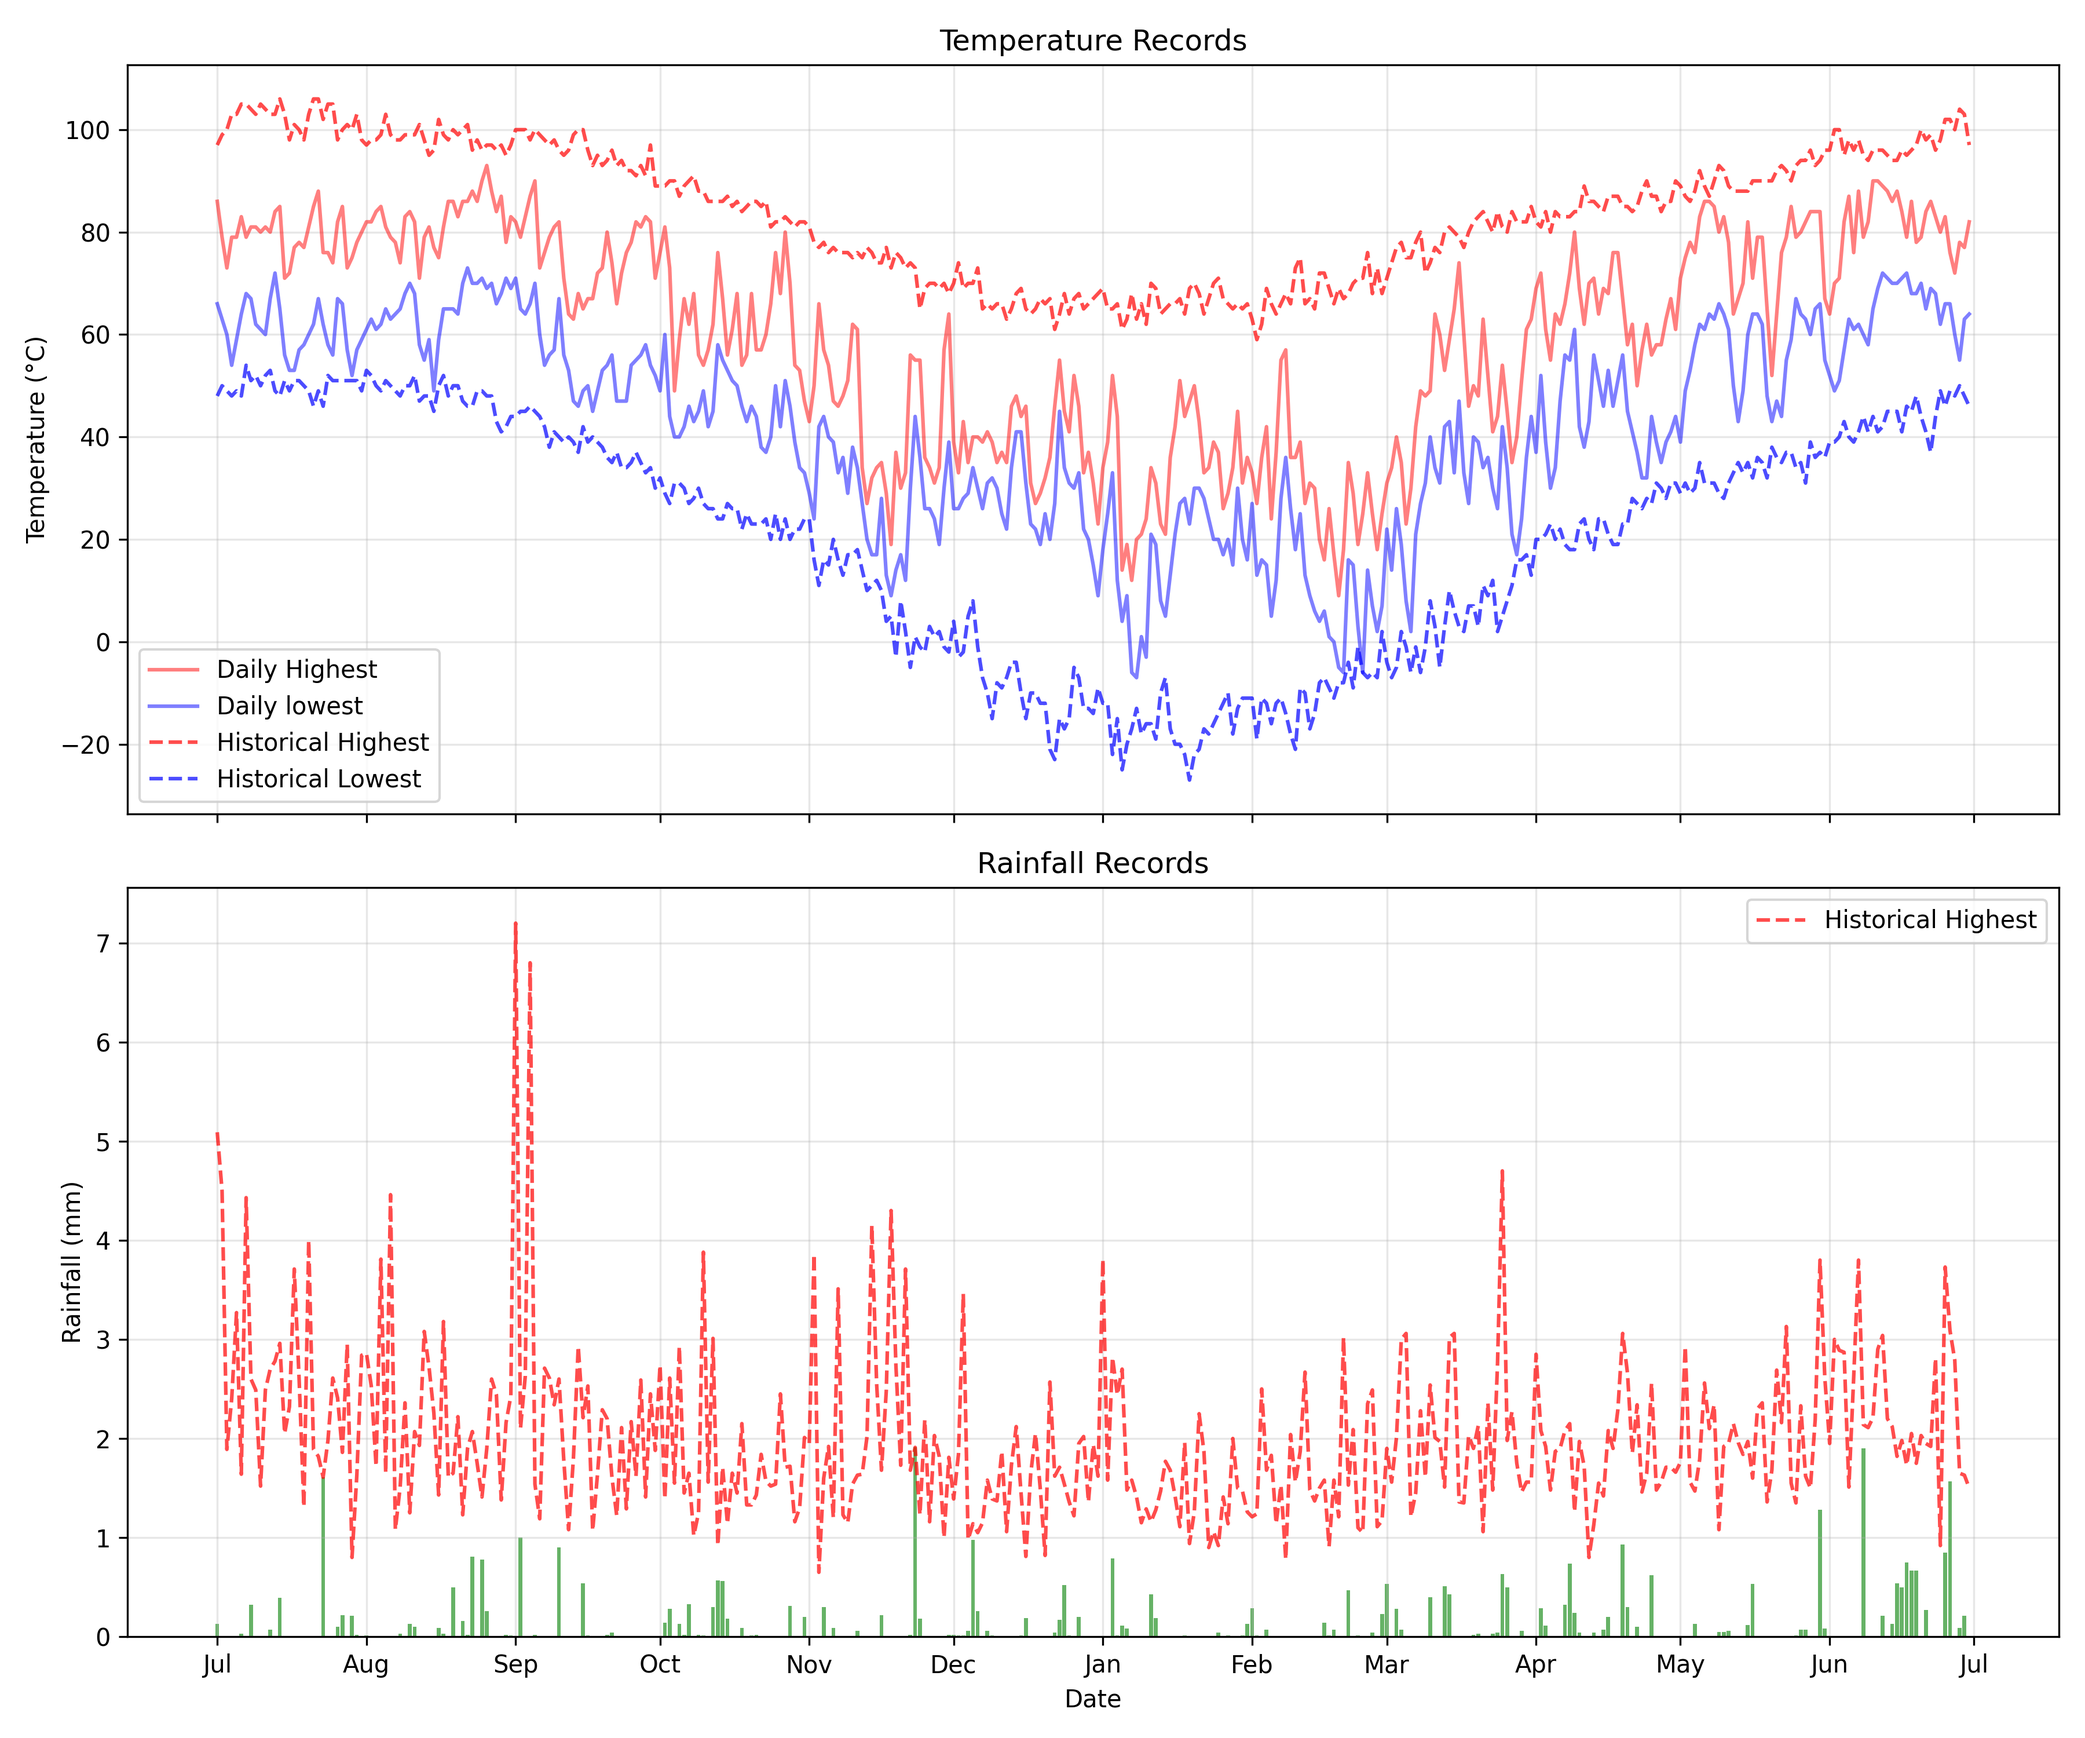
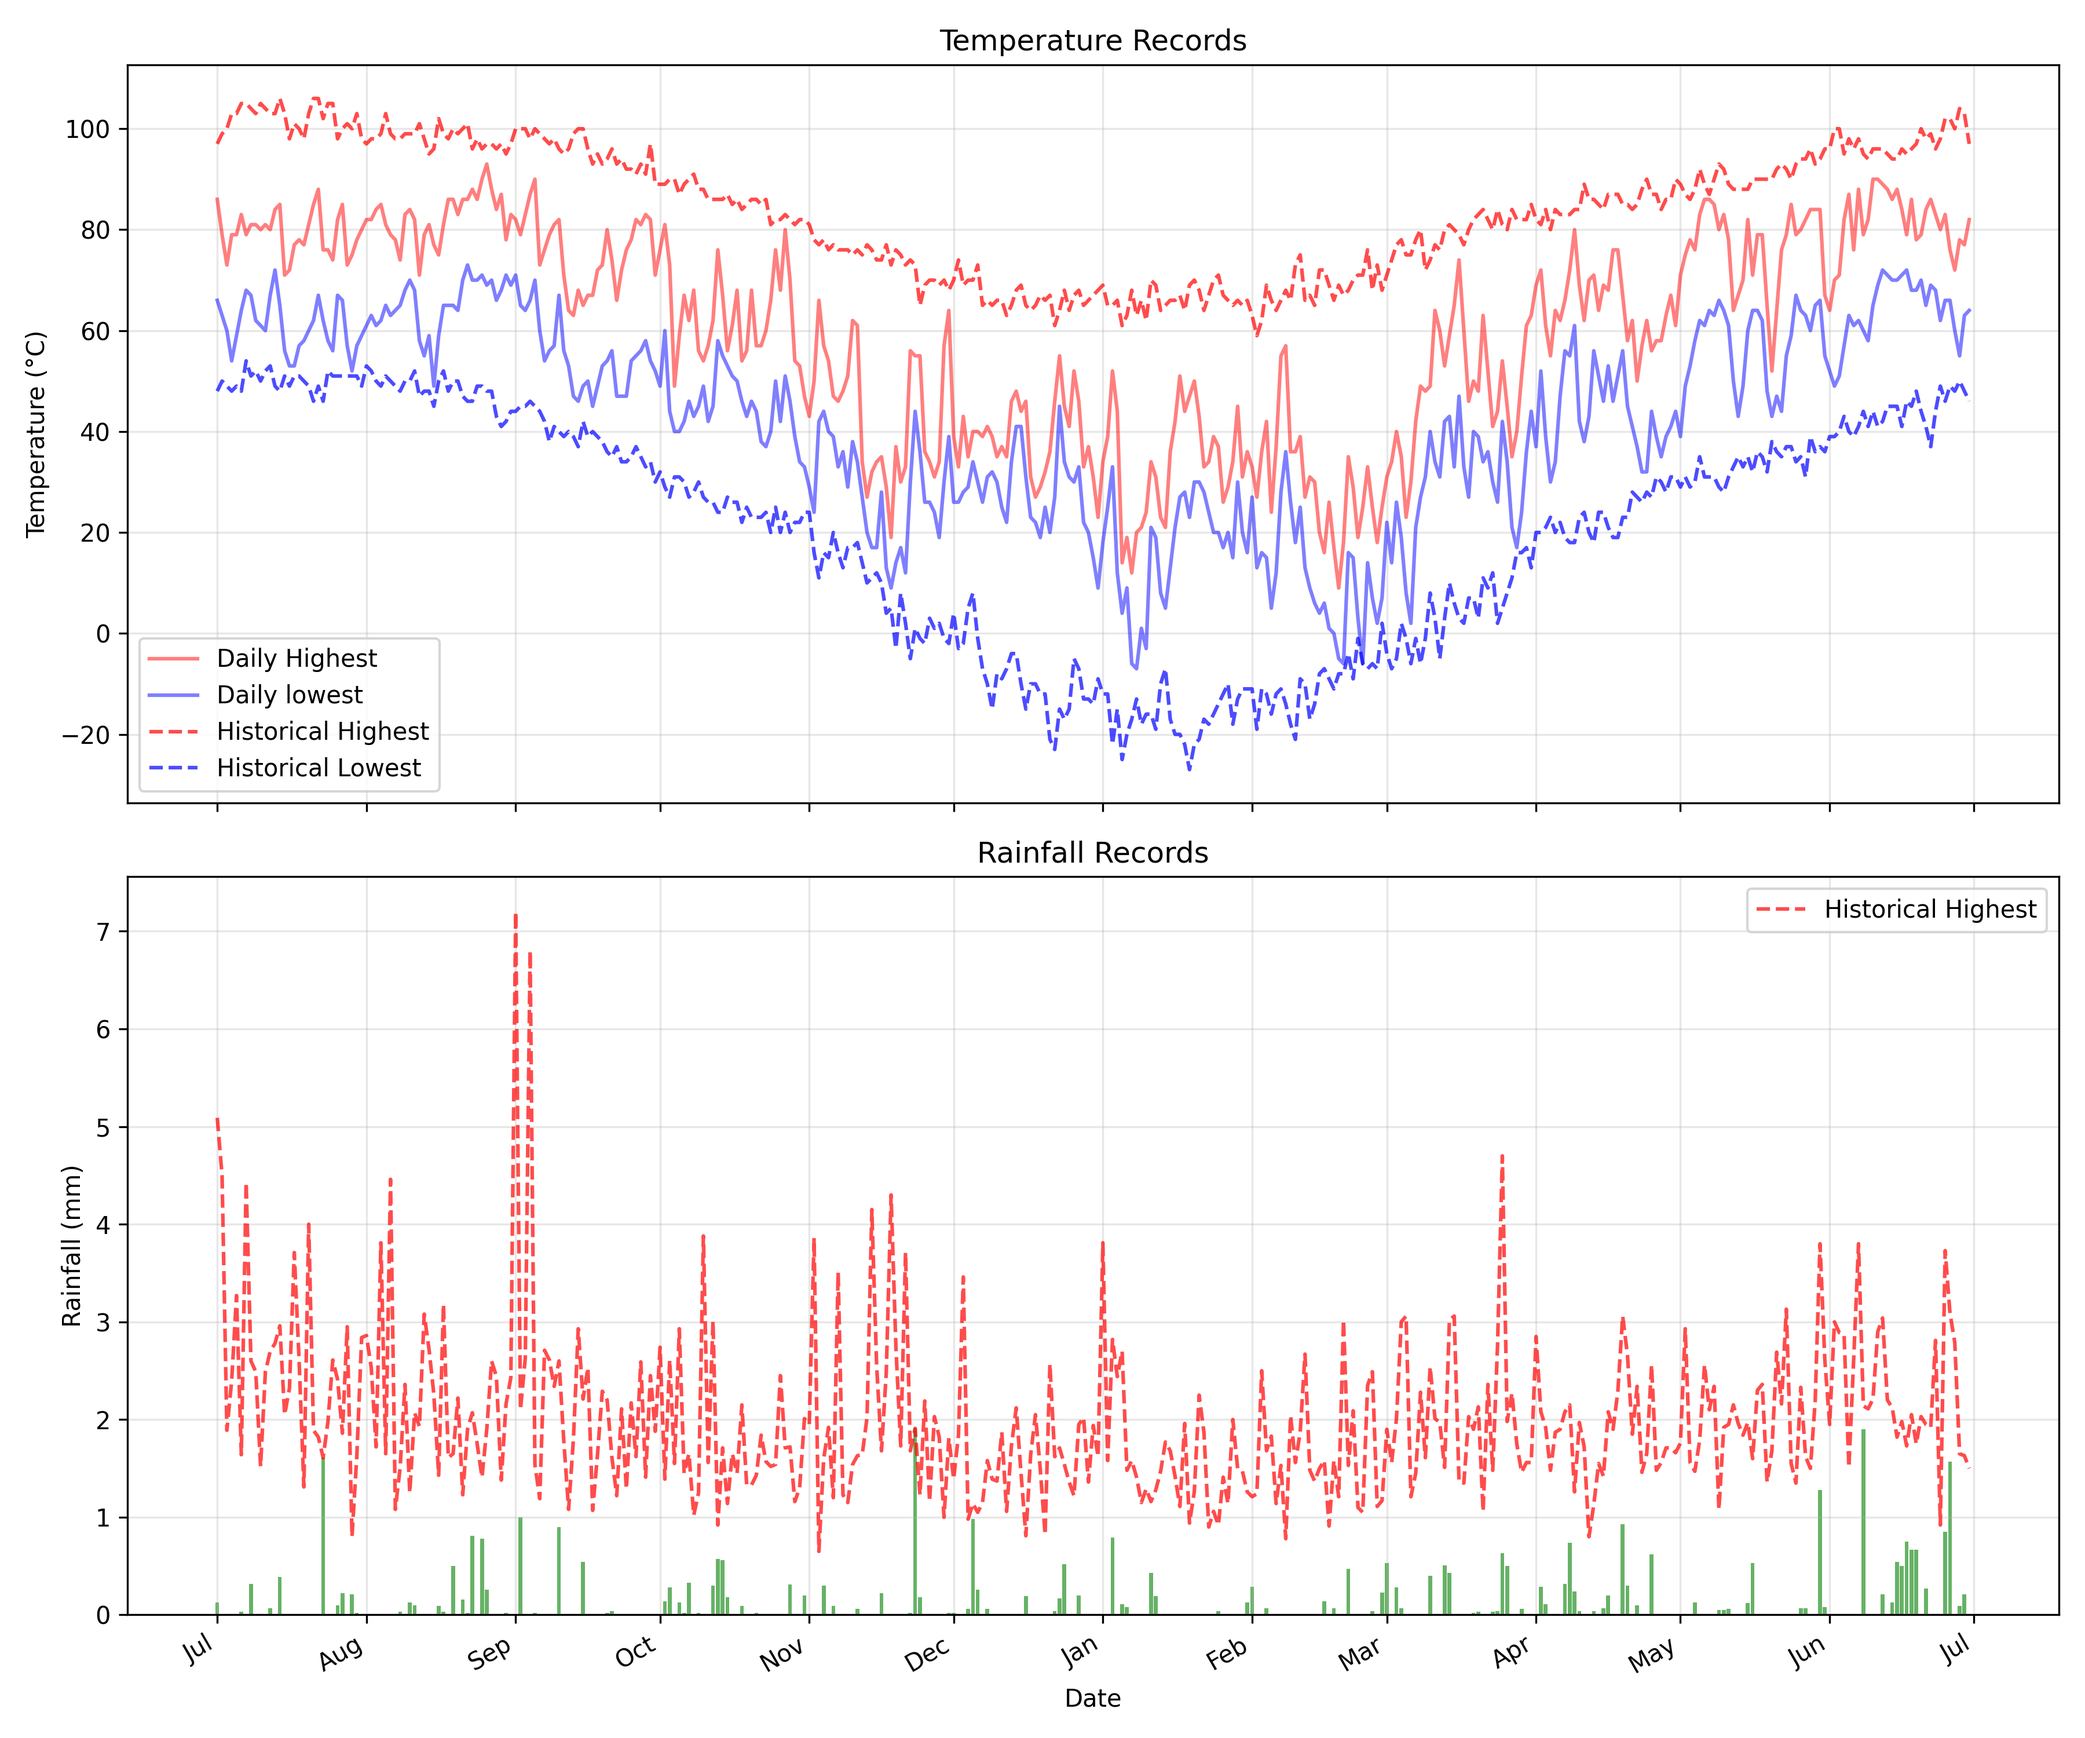
Feat.. References

diff --git a/DMV302Tb.py b/DMV302Tb.py
@@ -4,8 +4,11 @@ import matplotlib.pyplot as plt
 import seaborn as sns
 from matplotlib.colors import TwoSlopeNorm
 import matplotlib.dates as mdates
-from scipy import stats
+from scipy import stats # For sd
 
+# References. https://datavizcatalogue.com/index.html
+# Matplotlib dates https://matplotlib.org/stable/api/dates_api.html
+# Scipy stats for sd https://www.nature.com/articles/s41592-019-0686-2
 
 def load_and_preprocess_data():
     # Load and preprocess the weather data
@@ -161,7 +164,6 @@ def plot_rainfall_analysis(df):
     plt.savefig('rslt_rainfall_analysis.png', dpi=300)
     return fig
 
-
 def plot_climate_extremes(df):
     # Find days exceeding historical extremes
     record_high_days = df[df['Max_Temp'] > df['Historical_Highest']]
@@ -190,9 +192,11 @@ def plot_climate_extremes(df):
     ax1.legend(loc='best')
     ax1.grid(True, alpha=0.3)
 
-    # Format x-axis
-    ax2.xaxis.set_major_locator(mdates.MonthLocator())
-    ax2.xaxis.set_major_formatter(mdates.DateFormatter('%b'))
+    # Format x-axis to show months (set on ax1 since they sharex)
+    ax1.xaxis.set_major_locator(mdates.MonthLocator())
+    ax1.xaxis.set_major_formatter(mdates.DateFormatter('%b'))
+    plt.setp(ax1.get_xticklabels(), rotation=45, ha='right')
+
     # Rainfall records
     ax2.bar(df['Date'], df['Rainfall'], color='green', alpha=0.6)
     ax2.plot(df['Date'], df['Historical_Highest_Rain'], 'r--', 
@@ -208,10 +212,6 @@ def plot_climate_extremes(df):
     ax2.set_xlabel('Date')
     ax2.legend(loc='best')
     ax2.grid(True, alpha=0.3)
-    
-    # Format x-axis
-    ax2.xaxis.set_major_locator(mdates.MonthLocator())
-    ax2.xaxis.set_major_formatter(mdates.DateFormatter('%b'))
     
     plt.tight_layout()
     plt.savefig('rslt_climate_extremes.png', dpi=300)
